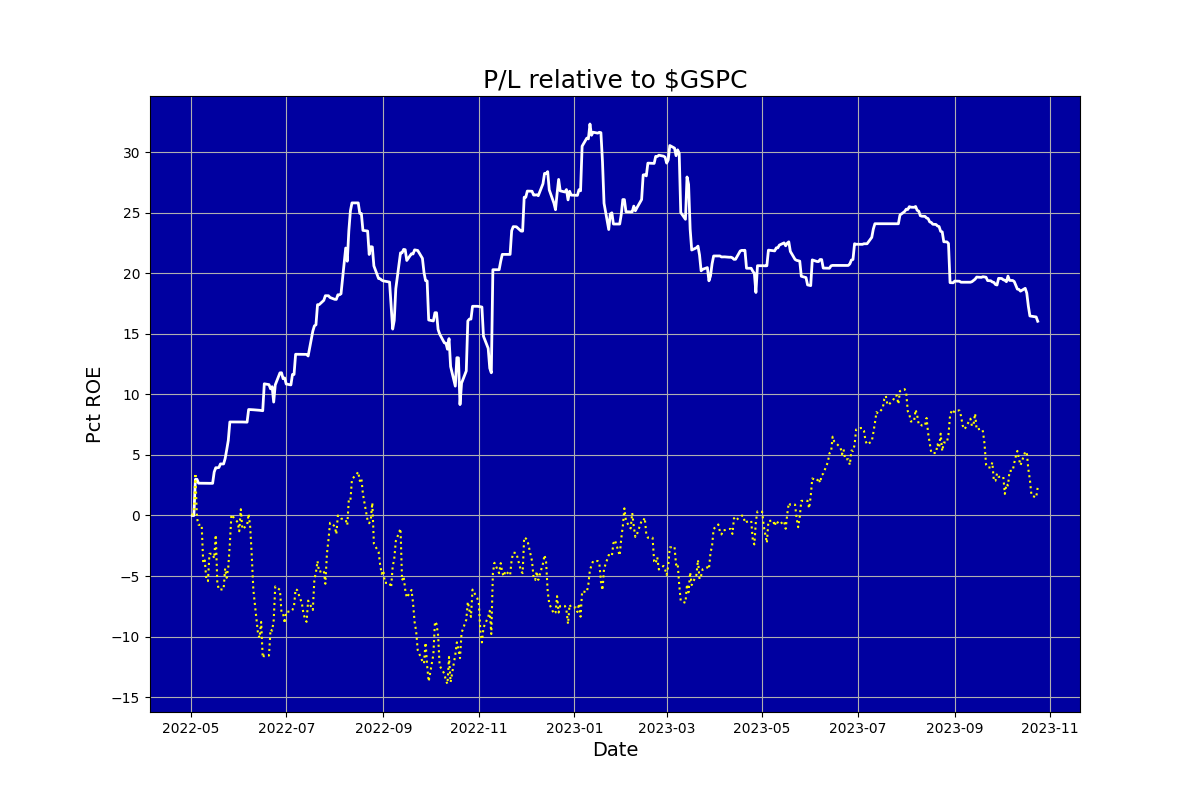
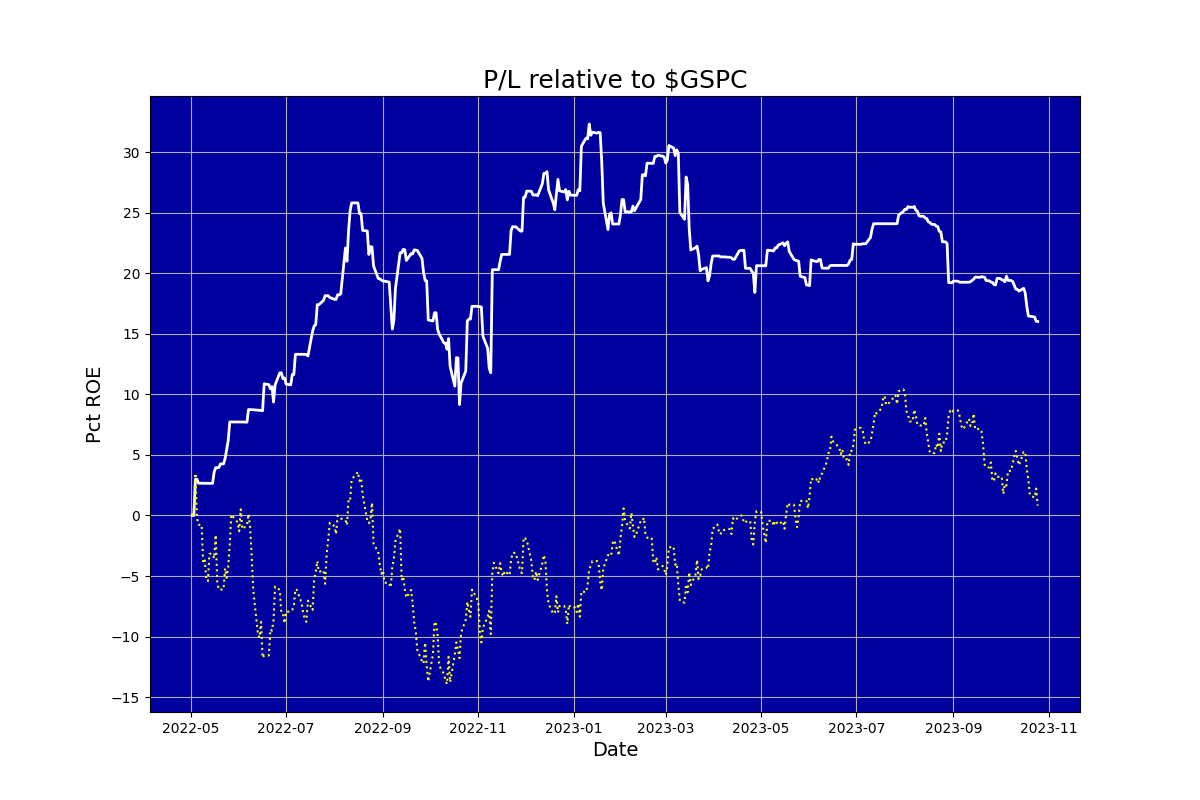
Updated

diff --git a/ig_report.html b/ig_report.html
@@ -1,1 +1,1 @@
-<html><body><center><h1>Auriel (never knowingly overbought)</h1></center><table cols=2><tr><td><img src=ig_pl.png></td><td><table cols=2><tr><td colspan=2><b><br>Snapshot</b></td></tr><tr><td>Last updated:&nbsp;&nbsp;&nbsp;</td><td>2023-10-24 15:55</td></tr><tr><td>Margin:&nbsp;&nbsp;&nbsp;</td><td>0.29</td></tr><tr><td>Cushion:&nbsp;&nbsp;&nbsp;</td><td>-45238.91</td></tr><tr><td>Last closed trade:&nbsp;&nbsp;&nbsp;</td><td>2023-10-24</td></tr><tr><td colspan=2><b><br>Positions</b></td></tr><tr><td>Mean days to new high:&nbsp;&nbsp;&nbsp;</td><td>17.89</td></tr><tr><td colspan=2><b><br>Trades</b></td></tr><tr><td>Traded days:&nbsp;&nbsp;&nbsp;</td><td>396</td></tr><tr><td>Profitable days pct:&nbsp;&nbsp;&nbsp;</td><td>33.84</td></tr><tr><td>Days beat S&P pct:&nbsp;&nbsp;&nbsp;</td><td>53.62</td></tr><tr><td>Profitable months pct:&nbsp;&nbsp;&nbsp;</td><td>61.11</td></tr><tr><td colspan=2><b><br>Performance</b></td></tr><tr><td>Pct median monthly ROE:&nbsp;&nbsp;&nbsp;</td><td>0.75</td></tr><tr><td>Pct annualised ROE:&nbsp;&nbsp;&nbsp;</td><td>10.13</td></tr><tr><td colspan=2><b><br>Risk</b></td></tr><tr><td>Volatility pct:&nbsp;&nbsp;&nbsp;</td><td>16.36</td></tr><tr><td>Benchmark volatility pct:&nbsp;&nbsp;&nbsp;</td><td>19.51</td></tr><tr><td>Sharpe ratio (RFR 5.0%):&nbsp;&nbsp;&nbsp;</td><td>0.41</td></tr><tr><td>Sortino ratio (RFR 5.0%):&nbsp;&nbsp;&nbsp;</td><td>0.56</td></tr><tr><td>Calmar ratio:&nbsp;&nbsp;&nbsp;</td><td>0.61</td></tr><tr><td>Worst drawdown pct:&nbsp;&nbsp;&nbsp;</td><td>-0.17</td></tr><tr><td>Recovery days from worst drawdown:&nbsp;&nbsp;&nbsp;</td><td>29.00</td></tr><tr><td>Beat benchmark +ve periods pct:&nbsp;&nbsp;&nbsp;</td><td>30.38</td></tr><tr><td>Beat benchmark -ve periods pct:&nbsp;&nbsp;&nbsp;</td><td>81.08</td></tr><tr><td>Correlation with benchmark:&nbsp;&nbsp;&nbsp;</td><td>0.33</td></tr></table></td></tr></table></body></html>
+<html><body><center><h1>Auriel (never knowingly overbought)</h1></center><table cols=2><tr><td><img src=ig_pl.png></td><td><table cols=2><tr><td colspan=2><b><br>Snapshot</b></td></tr><tr><td>Last updated:&nbsp;&nbsp;&nbsp;</td><td>2023-10-25 15:54</td></tr><tr><td>Margin:&nbsp;&nbsp;&nbsp;</td><td>0.34</td></tr><tr><td>Cushion:&nbsp;&nbsp;&nbsp;</td><td>-46416.42</td></tr><tr><td>Last closed trade:&nbsp;&nbsp;&nbsp;</td><td>2023-10-25</td></tr><tr><td colspan=2><b><br>Positions</b></td></tr><tr><td>Mean days to new high:&nbsp;&nbsp;&nbsp;</td><td>17.94</td></tr><tr><td colspan=2><b><br>Trades</b></td></tr><tr><td>Traded days:&nbsp;&nbsp;&nbsp;</td><td>397</td></tr><tr><td>Profitable days pct:&nbsp;&nbsp;&nbsp;</td><td>33.75</td></tr><tr><td>Days beat S&P pct:&nbsp;&nbsp;&nbsp;</td><td>53.74</td></tr><tr><td>Profitable months pct:&nbsp;&nbsp;&nbsp;</td><td>61.11</td></tr><tr><td colspan=2><b><br>Performance</b></td></tr><tr><td>Pct median monthly ROE:&nbsp;&nbsp;&nbsp;</td><td>0.75</td></tr><tr><td>Pct annualised ROE:&nbsp;&nbsp;&nbsp;</td><td>10.09</td></tr><tr><td colspan=2><b><br>Risk</b></td></tr><tr><td>Volatility pct:&nbsp;&nbsp;&nbsp;</td><td>16.34</td></tr><tr><td>Benchmark volatility pct:&nbsp;&nbsp;&nbsp;</td><td>19.50</td></tr><tr><td>Sharpe ratio (RFR 5.0%):&nbsp;&nbsp;&nbsp;</td><td>0.41</td></tr><tr><td>Sortino ratio (RFR 5.0%):&nbsp;&nbsp;&nbsp;</td><td>0.55</td></tr><tr><td>Calmar ratio:&nbsp;&nbsp;&nbsp;</td><td>0.61</td></tr><tr><td>Worst drawdown pct:&nbsp;&nbsp;&nbsp;</td><td>-0.17</td></tr><tr><td>Recovery days from worst drawdown:&nbsp;&nbsp;&nbsp;</td><td>29.00</td></tr><tr><td>Beat benchmark +ve periods pct:&nbsp;&nbsp;&nbsp;</td><td>30.29</td></tr><tr><td>Beat benchmark -ve periods pct:&nbsp;&nbsp;&nbsp;</td><td>80.80</td></tr><tr><td>Correlation with benchmark:&nbsp;&nbsp;&nbsp;</td><td>0.33</td></tr></table></td></tr></table></body></html>
